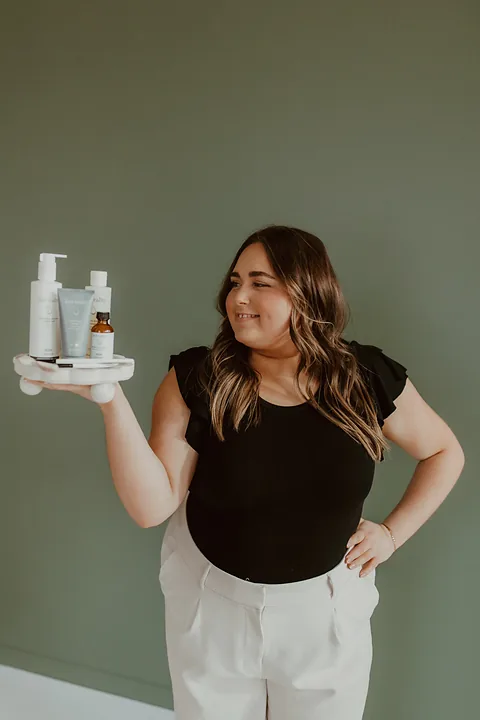
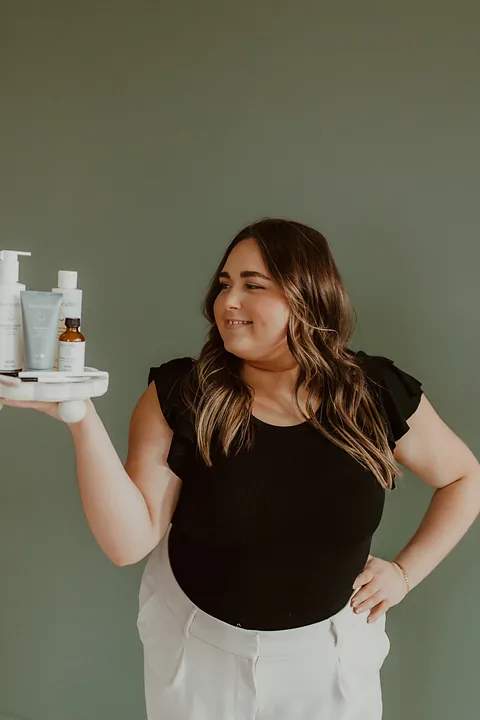
v2: new values copy, tighter Madison tray crop, IPL and RF starting-from prices
Replace the values line about skin cancer checks with honest advice and personalized plans. Recrop the tray photo so Madison sits more centered, and show IPL and RF prices in the same starting-from group format as laser.

Changed region(s): [[0.0, 0.3056, 1.0, 1.0], [0.6875, 0.9472, 0.7188, 0.9778]]

diff --git a/v2/injectables.html b/v2/injectables.html
@@ -25,7 +25,7 @@
 <div class="lede-wrap" data-enter="2"><p class="lede">Smooth wrinkles, plump lips, and facial balancing, with natural-looking results. Jeuveau softens lines, and dermal filler restores volume, with a plan built around your features.</p></div>
 <div class="ctas" data-enter="3"><a class="btn" href="https://efkrt.myaestheticrecord.com/online-booking">Book injectables</a><a class="btn ghost" href="#care">Pre and post care</a></div></div>
 <div class="ph hero-img mask zoom"><div class="px" data-parallax="8"><img src="../img/products-held.jpg" srcset="../img/products-held-480.webp 480w, ../img/products-held-800.webp 800w, ../img/products-held-1200.webp 1200w, ../img/products-held-1600.webp 1600w, ../img/products-held-2000.webp 2000w" sizes="(max-width:980px) 100vw, 50vw" width="2000" height="1196" alt="Madison holding Face Reality skincare products" decoding="async" loading="eager" fetchpriority="high" style="object-position:50% 35%"></div></div>
-</div></section><section class="menu-s"><div class="wrap pmenu"><div class="pcol"><div class="pstick mask"><div class="pf on" data-f="0"><img src="../img/ig-beanie.jpg" srcset="../img/ig-beanie-480.webp 480w, ../img/ig-beanie-800.webp 800w, ../img/ig-beanie-1200.webp 1200w, ../img/ig-beanie-1440.webp 1440w" sizes="(max-width:980px) 1px, 40vw" width="1440" height="1796" alt="Close-up of smooth, glowing skin" decoding="async" loading="eager" style="object-position:50% 30%"></div><div class="pf" data-f="1"><img src="../img/madison-tray.jpg" srcset="../img/madison-tray-480.webp 480w, ../img/madison-tray-800.webp 800w, ../img/madison-tray-1200.webp 1200w, ../img/madison-tray-1600.webp 1600w" sizes="(max-width:980px) 1px, 40vw" width="1600" height="2400" alt="Madison holding a tray of skincare products" decoding="async" loading="eager" style="object-position:50% 25%"></div></div></div><div class="plist"><div class="prow" data-f="0"><div class="pi mask zoom"><img src="../img/ig-beanie.jpg" srcset="../img/ig-beanie-480.webp 480w, ../img/ig-beanie-800.webp 800w, ../img/ig-beanie-1200.webp 1200w, ../img/ig-beanie-1440.webp 1440w" sizes="100vw" width="1440" height="1796" alt="Close-up of smooth, glowing skin" decoding="async" loading="lazy" style="object-position:50% 30%"></div><div class="item"><div class="row"><h3>Jeuveau Wrinkle Relaxer</h3><i></i><b>$12 / unit</b></div><p>Smooth fine lines and wrinkles with natural-looking results. Ideal for forehead, crow’s feet, frown lines, chin, and more. A quick treatment planned around your expressions, with results that typically last about 3–4 months.</p></div></div><div class="prow" data-f="0"><div class="item"><div class="row"><h3>Lip Flip</h3><i></i><b>$65</b></div><p>Enhance your upper lip with a few units of Jeuveau placed along the lip border, so the lip gently rolls outward for a fuller, softer look without adding volume. A quick treatment with natural-looking results that typically last about 2–3 months.</p></div></div><div class="prow" data-f="1"><div class="pi mask zoom"><img src="../img/madison-tray.jpg" srcset="../img/madison-tray-480.webp 480w, ../img/madison-tray-800.webp 800w, ../img/madison-tray-1200.webp 1200w, ../img/madison-tray-1600.webp 1600w" sizes="100vw" width="1600" height="2400" alt="Madison holding a tray of skincare products" decoding="async" loading="lazy" style="object-position:50% 25%"></div><div class="item"><div class="row"><h3>Dermal Filler, Half Syringe</h3><i></i><b>$375</b></div><p>Restore volume, define facial features, and enhance lips, cheeks, chin, or jawline with customized hyaluronic acid filler. Treatment is tailored to your features, whether you want a subtle refresh or more definition.</p><p class="best"><span>Best for:</span> Volume and structure</p></div></div><div class="prow" data-f="1"><div class="item"><div class="row"><h3>Dermal Filler, Full Syringe</h3><i></i><b>$550</b></div><p>Restore volume, define facial features, and enhance lips, cheeks, chin, or jawline with customized hyaluronic acid filler. Treatment is tailored to your features, whether you want a subtle refresh or more definition.</p><p class="best"><span>Best for:</span> Volume and structure</p></div></div></div></div></section><section class="finance dark" id="finance"><div class="wrap"><div data-reveal="left"><h2>Pay over time</h2><p class="lede" style="margin-top:8px">No hard credit checks. 0% APR options through Cherry.</p></div><a class="btn light" data-reveal="right" href="https://pay.withcherry.com/elevated-aesthetics-wi">Apply with Cherry</a></div></section><section id="care" class="care-s"><div class="wrap"><div class="head"><h2 data-reveal="left">Pre and post care</h2><p class="lede" data-reveal="right">Friendly tips for happy skin and long-lasting results from your favorite esthetician.</p></div><div class="care2" data-stagger><div class="cg"><h3>Wrinkle Relaxer</h3><div class="ccs n2"><div class="cc"><h4>Before your appointment</h4><p>Arrive with a clean face and avoid alcohol, ibuprofen, aspirin, fish oil, and other blood-thinning supplements for 24 hours if approved by your healthcare provider.</p></div><div class="cc"><h4>After your appointment</h4><p>Stay upright for 4 hours and avoid rubbing the treated area. Skip strenuous exercise, saunas, and facials for 24 hours. Full results develop in 10–14 days.</p></div></div></div><div class="cg"><h3>Dermal Filler</h3><div class="ccs n2"><div class="cc"><h4>Before your appointment</h4><p>Stay well hydrated and avoid alcohol, ibuprofen, aspirin, fish oil, and other blood-thinning supplements for 24 hours if approved by your healthcare provider to help minimize bruising.</p></div><div class="cc"><h4>After your appointment</h4><p>Expect mild swelling and bruising for a few days. Avoid strenuous exercise, excessive heat, and pressure on the treated area for 24–48 hours. Final results are typically seen once swelling resolves.</p></div></div></div></div><p class="guide" data-reveal><a href="faq.html"><span>Read the full pre and post care guide</span><i aria-hidden="true">→</i></a></p></div></section><section class="ig-s res-s" aria-labelledby="ig-h"><div class="wrap">
+</div></section><section class="menu-s"><div class="wrap pmenu"><div class="pcol"><div class="pstick mask"><div class="pf on" data-f="0"><img src="../img/ig-beanie.jpg" srcset="../img/ig-beanie-480.webp 480w, ../img/ig-beanie-800.webp 800w, ../img/ig-beanie-1200.webp 1200w, ../img/ig-beanie-1440.webp 1440w" sizes="(max-width:980px) 1px, 40vw" width="1440" height="1796" alt="Close-up of smooth, glowing skin" decoding="async" loading="eager" style="object-position:50% 30%"></div><div class="pf" data-f="1"><img src="../img/madison-tray.jpg" srcset="../img/madison-tray-480.webp 480w, ../img/madison-tray-800.webp 800w, ../img/madison-tray-1200.webp 1200w, ../img/madison-tray-1518.webp 1518w" sizes="(max-width:980px) 1px, 40vw" width="1518" height="2277" alt="Madison holding a tray of skincare products" decoding="async" loading="eager" style="object-position:50% 32%"></div></div></div><div class="plist"><div class="prow" data-f="0"><div class="pi mask zoom"><img src="../img/ig-beanie.jpg" srcset="../img/ig-beanie-480.webp 480w, ../img/ig-beanie-800.webp 800w, ../img/ig-beanie-1200.webp 1200w, ../img/ig-beanie-1440.webp 1440w" sizes="100vw" width="1440" height="1796" alt="Close-up of smooth, glowing skin" decoding="async" loading="lazy" style="object-position:50% 30%"></div><div class="item"><div class="row"><h3>Jeuveau Wrinkle Relaxer</h3><i></i><b>$12 / unit</b></div><p>Smooth fine lines and wrinkles with natural-looking results. Ideal for forehead, crow’s feet, frown lines, chin, and more. A quick treatment planned around your expressions, with results that typically last about 3–4 months.</p></div></div><div class="prow" data-f="0"><div class="item"><div class="row"><h3>Lip Flip</h3><i></i><b>$65</b></div><p>Enhance your upper lip with a few units of Jeuveau placed along the lip border, so the lip gently rolls outward for a fuller, softer look without adding volume. A quick treatment with natural-looking results that typically last about 2–3 months.</p></div></div><div class="prow" data-f="1"><div class="pi mask zoom"><img src="../img/madison-tray.jpg" srcset="../img/madison-tray-480.webp 480w, ../img/madison-tray-800.webp 800w, ../img/madison-tray-1200.webp 1200w, ../img/madison-tray-1518.webp 1518w" sizes="100vw" width="1518" height="2277" alt="Madison holding a tray of skincare products" decoding="async" loading="lazy" style="object-position:50% 32%"></div><div class="item"><div class="row"><h3>Dermal Filler, Half Syringe</h3><i></i><b>$375</b></div><p>Restore volume, define facial features, and enhance lips, cheeks, chin, or jawline with customized hyaluronic acid filler. Treatment is tailored to your features, whether you want a subtle refresh or more definition.</p><p class="best"><span>Best for:</span> Volume and structure</p></div></div><div class="prow" data-f="1"><div class="item"><div class="row"><h3>Dermal Filler, Full Syringe</h3><i></i><b>$550</b></div><p>Restore volume, define facial features, and enhance lips, cheeks, chin, or jawline with customized hyaluronic acid filler. Treatment is tailored to your features, whether you want a subtle refresh or more definition.</p><p class="best"><span>Best for:</span> Volume and structure</p></div></div></div></div></section><section class="finance dark" id="finance"><div class="wrap"><div data-reveal="left"><h2>Pay over time</h2><p class="lede" style="margin-top:8px">No hard credit checks. 0% APR options through Cherry.</p></div><a class="btn light" data-reveal="right" href="https://pay.withcherry.com/elevated-aesthetics-wi">Apply with Cherry</a></div></section><section id="care" class="care-s"><div class="wrap"><div class="head"><h2 data-reveal="left">Pre and post care</h2><p class="lede" data-reveal="right">Friendly tips for happy skin and long-lasting results from your favorite esthetician.</p></div><div class="care2" data-stagger><div class="cg"><h3>Wrinkle Relaxer</h3><div class="ccs n2"><div class="cc"><h4>Before your appointment</h4><p>Arrive with a clean face and avoid alcohol, ibuprofen, aspirin, fish oil, and other blood-thinning supplements for 24 hours if approved by your healthcare provider.</p></div><div class="cc"><h4>After your appointment</h4><p>Stay upright for 4 hours and avoid rubbing the treated area. Skip strenuous exercise, saunas, and facials for 24 hours. Full results develop in 10–14 days.</p></div></div></div><div class="cg"><h3>Dermal Filler</h3><div class="ccs n2"><div class="cc"><h4>Before your appointment</h4><p>Stay well hydrated and avoid alcohol, ibuprofen, aspirin, fish oil, and other blood-thinning supplements for 24 hours if approved by your healthcare provider to help minimize bruising.</p></div><div class="cc"><h4>After your appointment</h4><p>Expect mild swelling and bruising for a few days. Avoid strenuous exercise, excessive heat, and pressure on the treated area for 24–48 hours. Final results are typically seen once swelling resolves.</p></div></div></div></div><p class="guide" data-reveal><a href="faq.html"><span>Read the full pre and post care guide</span><i aria-hidden="true">→</i></a></p></div></section><section class="ig-s res-s" aria-labelledby="ig-h"><div class="wrap">
 <div class="res-head"><div data-reveal="left"><h2 id="ig-h">Results from the studio, on Instagram.</h2></div>
 <a class="btn ghost" data-reveal="right" href="https://www.instagram.com/mh.elevated.aesthetics/">@mh.elevated.aesthetics</a></div>
 <div class="res-mix n3" data-stagger><figure class="res-card vid" style="--ar:0.5625"><div class="res-media"><video autoplay muted loop playsinline preload="none" poster="media/DZ00_5AAKAZ.jpg" width="720" height="1280" aria-label="Lip filler from bare lips to a full syringe in Oshkosh, WI"><source src="media/DZ00_5AAKAZ.mp4" type="video/mp4"></video><button class="res-play" type="button" aria-label="Play video"></button></div><figcaption><span>Lip Filler</span><a class="link" href="https://www.instagram.com/p/DZ00_5AAKAZ/" target="_blank" rel="noopener">View on Instagram</a></figcaption></figure><figure class="res-card photo" style="--ar:0.75"><div class="res-media"><img src="media/Da8fxqhgGhR.jpg?v=2" srcset="media/Da8fxqhgGhR.webp?v=2" width="1080" height="1440" alt="Chin filler before and after in Oshkosh, WI" loading="lazy" decoding="async"></div><figcaption><span>Chin Filler</span><a class="link" href="https://www.instagram.com/p/Da8fxqhgGhR/" target="_blank" rel="noopener">View on Instagram</a></figcaption></figure><figure class="res-card photo" style="--ar:0.8"><div class="res-media"><img src="media/DblWKe2lnBZ--2.jpg?v=2" srcset="media/DblWKe2lnBZ--2.webp?v=2" width="1080" height="1350" alt="Cheek filler before and after in Oshkosh, WI" loading="lazy" decoding="async"></div><figcaption><span>Cheek Filler</span><a class="link" href="https://www.instagram.com/p/DblWKe2lnBZ/" target="_blank" rel="noopener">View on Instagram</a></figcaption></figure></div>

diff --git a/v2/pricing.html b/v2/pricing.html
@@ -47,7 +47,7 @@
 <article class="pg" id="ipl">
 <div class="pg-h"><div><h2>IPL Treatments</h2><p class="lede">Single sessions or packages, with Olivia or Madison.</p></div>
 <div class="pg-act"><a class="btn ghost" href="ipl.html">View treatment</a><a class="btn" href="https://efkrt.myaestheticrecord.com/online-booking">Book</a></div></div>
-<div class="ptables c2" data-stagger><div class="pcolm"><div class="ptable"><h3>Face</h3><table><thead><tr><th scope="col">Treatment</th><th scope="col">Price</th></tr></thead><tbody><tr><th scope="row">Full Face Package (3)</th><td>$1,300</td></tr><tr><th scope="row">Full Face Single</th><td>$500</td></tr><tr><th scope="row">Full Face + Neck Package (3)</th><td>$2,350</td></tr><tr><th scope="row">Full Face + Neck Single</th><td>$300</td></tr><tr><th scope="row">Chest Package</th><td>$1,300</td></tr><tr><th scope="row">Chest Single</th><td>$500</td></tr></tbody></table></div></div><div class="pcolm"><div class="ptable"><h3>Body</h3><table><thead><tr><th scope="col">Treatment</th><th scope="col">Price</th></tr></thead><tbody><tr><th scope="row">Spot Treatment Package (3)</th><td>$800</td></tr><tr><th scope="row">Spot Treatment Single</th><td>$300</td></tr><tr><th scope="row">Hands Package (3)</th><td>$1,050</td></tr><tr><th scope="row">Hands Single</th><td>$450</td></tr></tbody></table></div><div class="ptable"><h3>Packages</h3><table><thead><tr><th scope="col">Treatment</th><th scope="col">Price</th></tr></thead><tbody><tr><th scope="row">Bright & Tight: RF Micro-Needle (3) + IPL (3)</th><td>$4,800</td></tr></tbody></table></div></div></div></article>
+<div class="ptables c3" data-stagger><div class="pcolm"><div class="ptable lz-flat"><h3><span class="lz-flat-name">Face</span><span class="lz-from">starting from $500</span></h3><ul class="lz-areas"><li>Full Face</li><li>Full Face + Neck</li><li>Chest</li></ul></div></div><div class="pcolm"><div class="ptable lz-flat"><h3><span class="lz-flat-name">Body</span><span class="lz-from">starting from $300</span></h3><ul class="lz-areas"><li>Spot Treatment</li><li>Hands</li></ul></div></div><div class="pcolm"><div class="ptable lz-flat"><h3><span class="lz-flat-name">Packages</span><span class="lz-from">starting from $4,800</span></h3><ul class="lz-areas"><li>Bright & Tight: RF Micro-Needle (3) + IPL (3)</li></ul></div></div></div></article>
 <article class="pg" id="laser-hair-removal">
 <div class="pg-h"><div><h2>Laser Hair Removal</h2><p class="lede">All prices are for a 6-session package. With Olivia or Madison.</p></div>
 <div class="pg-act"><a class="btn ghost" href="laser-hair-removal.html">View treatment</a><a class="btn" href="https://efkrt.myaestheticrecord.com/online-booking">Book</a></div></div>
@@ -55,7 +55,7 @@
 <article class="pg" id="rf-microneedling">
 <div class="pg-h"><div><h2>RF Microneedling</h2><p class="lede">Single sessions or packages, with Olivia or Madison.</p></div>
 <div class="pg-act"><a class="btn ghost" href="rf-microneedling.html">View treatment</a><a class="btn" href="https://efkrt.myaestheticrecord.com/online-booking">Book</a></div></div>
-<div class="ptables c3" data-stagger><div class="pcolm"><div class="ptable"><h3>Face</h3><table><thead><tr><th scope="col">Treatment</th><th scope="col">Price</th></tr></thead><tbody><tr><th scope="row">Full Face Package (3)</th><td>$2,800</td></tr><tr><th scope="row">Full Face Single</th><td>$950</td></tr><tr><th scope="row">Full Face + Neck Package (3)</th><td>$3,000</td></tr><tr><th scope="row">Full Face + Neck Single</th><td>$1,000</td></tr><tr><th scope="row">Chest Package (3)</th><td>$1,300</td></tr><tr><th scope="row">Chest Single</th><td>$500</td></tr></tbody></table></div></div><div class="pcolm"><div class="ptable"><h3>Body</h3><table><thead><tr><th scope="col">Treatment</th><th scope="col">Price</th></tr></thead><tbody><tr><th scope="row">Scars Package (3)</th><td>$1,300</td></tr><tr><th scope="row">Scars Treatment Single</th><td>$500</td></tr><tr><th scope="row">Stretch Marks Package (3)</th><td>$1,800</td></tr><tr><th scope="row">Stretch Marks Single</th><td>$700</td></tr></tbody></table></div></div><div class="pcolm"><div class="ptable"><h3>Eyes and Mouth</h3><table><thead><tr><th scope="col">Treatment</th><th scope="col">Price</th></tr></thead><tbody><tr><th scope="row">Eyes Package (3)</th><td>$1,200</td></tr><tr><th scope="row">Eyes Single</th><td>$450</td></tr><tr><th scope="row">Around Mouth Package (3)</th><td>$1,200</td></tr><tr><th scope="row">Around Mouth Single</th><td>$450</td></tr><tr><th scope="row">Eyes and Mouth Package (3)</th><td>$2,000</td></tr><tr><th scope="row">Eyes and Mouth Single</th><td>$650</td></tr></tbody></table></div></div></div></article>
+<div class="ptables c3" data-stagger><div class="pcolm"><div class="ptable lz-flat"><h3><span class="lz-flat-name">Face</span><span class="lz-from">starting from $500</span></h3><ul class="lz-areas"><li>Full Face</li><li>Full Face + Neck</li><li>Chest</li></ul></div></div><div class="pcolm"><div class="ptable lz-flat"><h3><span class="lz-flat-name">Body</span><span class="lz-from">starting from $500</span></h3><ul class="lz-areas"><li>Scars</li><li>Stretch Marks</li></ul></div></div><div class="pcolm"><div class="ptable lz-flat"><h3><span class="lz-flat-name">Eyes and Mouth</span><span class="lz-from">starting from $450</span></h3><ul class="lz-areas"><li>Eyes</li><li>Around Mouth</li><li>Eyes and Mouth</li></ul></div></div></div></article>
 </div></section>
 <section class="finance dark" id="finance"><div class="wrap"><div data-reveal="left"><h2>Pay over time</h2><p class="lede" style="margin-top:8px">No hard credit checks. 0% APR options through Cherry.</p></div><a class="btn light" data-reveal="right" href="https://pay.withcherry.com/elevated-aesthetics-wi">Apply with Cherry</a></div></section><section class="ig-s" aria-labelledby="ig-h"><div class="wrap res-head">
 <div data-reveal="left"><h2 id="ig-h">Results from the studio, on Instagram.</h2></div>

diff --git a/v2/ipl.html b/v2/ipl.html
@@ -24,9 +24,9 @@
 <div><p class="crumb" data-enter><a class="link" href="services.html">Treatments</a> / IPL Treatments</p><h1 class="split"><span class="w"><span style="--i:0">IPL</span></span> <span class="w"><span style="--i:1">Treatments</span></span></h1>
 <div class="lede-wrap" data-enter="2"><p class="by" style="margin-bottom:12px">Intense pulsed light, with Olivia or Madison</p><p class="lede">Reveal brighter, more even-looking skin with IPL, a light-based treatment designed to target common concerns such as sun damage, brown spots, redness, visible capillaries, and uneven skin tone.</p></div>
 <div class="ctas" data-enter="3"><a class="btn" href="https://efkrt.myaestheticrecord.com/online-booking">Book IPL</a><a class="btn ghost" href="#prices">See prices</a></div></div>
-<div class="ph hero-img mask zoom"><div class="px" data-parallax="8"><img src="../img/madison-tray.jpg" srcset="../img/madison-tray-480.webp 480w, ../img/madison-tray-800.webp 800w, ../img/madison-tray-1200.webp 1200w, ../img/madison-tray-1600.webp 1600w" sizes="(max-width:980px) 100vw, 50vw" width="1600" height="2400" alt="Madison holding a tray of skincare products" decoding="async" loading="eager" fetchpriority="high" style="object-position:50% 25%"></div></div>
+<div class="ph hero-img mask zoom"><div class="px" data-parallax="8"><img src="../img/madison-tray.jpg" srcset="../img/madison-tray-480.webp 480w, ../img/madison-tray-800.webp 800w, ../img/madison-tray-1200.webp 1200w, ../img/madison-tray-1518.webp 1518w" sizes="(max-width:980px) 100vw, 50vw" width="1518" height="2277" alt="Madison holding a tray of skincare products" decoding="async" loading="eager" fetchpriority="high" style="object-position:50% 32%"></div></div>
 </div></section><section class="stone" id="prices"><div class="wrap"><div class="head"><h2 data-reveal="left">IPL prices</h2><p class="lede" data-reveal="right">Single sessions or packages. Pay over time with Cherry.</p></div>
-<div class="ptables c2" data-stagger><div class="pcolm"><div class="ptable"><h3>Face</h3><table><thead><tr><th scope="col">Treatment</th><th scope="col">Price</th></tr></thead><tbody><tr><th scope="row">Full Face Package (3)</th><td>$1,300</td></tr><tr><th scope="row">Full Face Single</th><td>$500</td></tr><tr><th scope="row">Full Face + Neck Package (3)</th><td>$2,350</td></tr><tr><th scope="row">Full Face + Neck Single</th><td>$300</td></tr><tr><th scope="row">Chest Package</th><td>$1,300</td></tr><tr><th scope="row">Chest Single</th><td>$500</td></tr></tbody></table></div></div><div class="pcolm"><div class="ptable"><h3>Body</h3><table><thead><tr><th scope="col">Treatment</th><th scope="col">Price</th></tr></thead><tbody><tr><th scope="row">Spot Treatment Package (3)</th><td>$800</td></tr><tr><th scope="row">Spot Treatment Single</th><td>$300</td></tr><tr><th scope="row">Hands Package (3)</th><td>$1,050</td></tr><tr><th scope="row">Hands Single</th><td>$450</td></tr></tbody></table></div><div class="ptable"><h3>Packages</h3><table><thead><tr><th scope="col">Treatment</th><th scope="col">Price</th></tr></thead><tbody><tr><th scope="row">Bright & Tight: RF Micro-Needle (3) + IPL (3)</th><td>$4,800</td></tr></tbody></table></div></div></div></div></section><section class="finance dark" id="finance"><div class="wrap"><div data-reveal="left"><h2>Pay over time</h2><p class="lede" style="margin-top:8px">No hard credit checks. 0% APR options through Cherry.</p></div><a class="btn light" data-reveal="right" href="https://pay.withcherry.com/elevated-aesthetics-wi">Apply with Cherry</a></div></section><section class="how-s" id="how"><div class="wrap how-grid">
+<div class="lz-prices"><div class="lz-acc"><button class="lz-sum" type="button" aria-expanded="false" aria-controls="ipl-panel-0"><span class="lz-name">Face</span><span class="lz-from">starting from $500</span><i class="lz-chev" aria-hidden="true"></i></button><div class="lz-panel" id="ipl-panel-0" role="region"><div class="lz-in"><ul class="lz-areas"><li>Full Face</li><li>Full Face + Neck</li><li>Chest</li></ul></div></div></div><div class="lz-acc"><button class="lz-sum" type="button" aria-expanded="false" aria-controls="ipl-panel-1"><span class="lz-name">Body</span><span class="lz-from">starting from $300</span><i class="lz-chev" aria-hidden="true"></i></button><div class="lz-panel" id="ipl-panel-1" role="region"><div class="lz-in"><ul class="lz-areas"><li>Spot Treatment</li><li>Hands</li></ul></div></div></div><div class="lz-acc"><button class="lz-sum" type="button" aria-expanded="false" aria-controls="ipl-panel-2"><span class="lz-name">Packages</span><span class="lz-from">starting from $4,800</span><i class="lz-chev" aria-hidden="true"></i></button><div class="lz-panel" id="ipl-panel-2" role="region"><div class="lz-in"><ul class="lz-areas"><li>Bright & Tight: RF Micro-Needle (3) + IPL (3)</li></ul></div></div></div></div></div></section><section class="finance dark" id="finance"><div class="wrap"><div data-reveal="left"><h2>Pay over time</h2><p class="lede" style="margin-top:8px">No hard credit checks. 0% APR options through Cherry.</p></div><a class="btn light" data-reveal="right" href="https://pay.withcherry.com/elevated-aesthetics-wi">Apply with Cherry</a></div></section><section class="how-s" id="how"><div class="wrap how-grid">
 <div class="how-copy" data-reveal="left">
 <h2>How it works</h2>
 <p class="lede">IPL delivers gentle pulses of broad-spectrum light into the skin, targeting pigment and vascular concerns while encouraging a more refreshed, radiant appearance.</p>

diff --git a/v2/rf-microneedling.html b/v2/rf-microneedling.html
@@ -26,7 +26,7 @@
 <div class="ctas" data-enter="3"><a class="btn" href="https://efkrt.myaestheticrecord.com/online-booking">Book RF microneedling</a><a class="btn ghost" href="#prices">See prices</a></div></div>
 <div class="ph hero-img mask zoom"><div class="px" data-parallax="8"><img src="../img/pampas.jpg" srcset="../img/pampas-480.webp 480w, ../img/pampas-800.webp 800w, ../img/pampas-1200.webp 1200w, ../img/pampas-1343.webp 1343w" sizes="(max-width:980px) 100vw, 50vw" width="1343" height="3000" alt="Pampas grass" decoding="async" loading="eager" fetchpriority="high" style="object-position:50% 50%"></div></div>
 </div></section><section class="stone" id="prices"><div class="wrap"><div class="head"><h2 data-reveal="left">RF Microneedling prices</h2><p class="lede" data-reveal="right">Single sessions or packages. Pay over time with Cherry.</p></div>
-<div class="ptables c3" data-stagger><div class="pcolm"><div class="ptable"><h3>Face</h3><table><thead><tr><th scope="col">Treatment</th><th scope="col">Price</th></tr></thead><tbody><tr><th scope="row">Full Face Package (3)</th><td>$2,800</td></tr><tr><th scope="row">Full Face Single</th><td>$950</td></tr><tr><th scope="row">Full Face + Neck Package (3)</th><td>$3,000</td></tr><tr><th scope="row">Full Face + Neck Single</th><td>$1,000</td></tr><tr><th scope="row">Chest Package (3)</th><td>$1,300</td></tr><tr><th scope="row">Chest Single</th><td>$500</td></tr></tbody></table></div></div><div class="pcolm"><div class="ptable"><h3>Body</h3><table><thead><tr><th scope="col">Treatment</th><th scope="col">Price</th></tr></thead><tbody><tr><th scope="row">Scars Package (3)</th><td>$1,300</td></tr><tr><th scope="row">Scars Treatment Single</th><td>$500</td></tr><tr><th scope="row">Stretch Marks Package (3)</th><td>$1,800</td></tr><tr><th scope="row">Stretch Marks Single</th><td>$700</td></tr></tbody></table></div></div><div class="pcolm"><div class="ptable"><h3>Eyes and Mouth</h3><table><thead><tr><th scope="col">Treatment</th><th scope="col">Price</th></tr></thead><tbody><tr><th scope="row">Eyes Package (3)</th><td>$1,200</td></tr><tr><th scope="row">Eyes Single</th><td>$450</td></tr><tr><th scope="row">Around Mouth Package (3)</th><td>$1,200</td></tr><tr><th scope="row">Around Mouth Single</th><td>$450</td></tr><tr><th scope="row">Eyes and Mouth Package (3)</th><td>$2,000</td></tr><tr><th scope="row">Eyes and Mouth Single</th><td>$650</td></tr></tbody></table></div></div></div></div></section><section class="finance dark" id="finance"><div class="wrap"><div data-reveal="left"><h2>Pay over time</h2><p class="lede" style="margin-top:8px">No hard credit checks. 0% APR options through Cherry.</p></div><a class="btn light" data-reveal="right" href="https://pay.withcherry.com/elevated-aesthetics-wi">Apply with Cherry</a></div></section><section class="how-s" id="how"><div class="wrap how-grid how-2">
+<div class="lz-prices"><div class="lz-acc"><button class="lz-sum" type="button" aria-expanded="false" aria-controls="rf-panel-0"><span class="lz-name">Face</span><span class="lz-from">starting from $500</span><i class="lz-chev" aria-hidden="true"></i></button><div class="lz-panel" id="rf-panel-0" role="region"><div class="lz-in"><ul class="lz-areas"><li>Full Face</li><li>Full Face + Neck</li><li>Chest</li></ul></div></div></div><div class="lz-acc"><button class="lz-sum" type="button" aria-expanded="false" aria-controls="rf-panel-1"><span class="lz-name">Body</span><span class="lz-from">starting from $500</span><i class="lz-chev" aria-hidden="true"></i></button><div class="lz-panel" id="rf-panel-1" role="region"><div class="lz-in"><ul class="lz-areas"><li>Scars</li><li>Stretch Marks</li></ul></div></div></div><div class="lz-acc"><button class="lz-sum" type="button" aria-expanded="false" aria-controls="rf-panel-2"><span class="lz-name">Eyes and Mouth</span><span class="lz-from">starting from $450</span><i class="lz-chev" aria-hidden="true"></i></button><div class="lz-panel" id="rf-panel-2" role="region"><div class="lz-in"><ul class="lz-areas"><li>Eyes</li><li>Around Mouth</li><li>Eyes and Mouth</li></ul></div></div></div></div></div></section><section class="finance dark" id="finance"><div class="wrap"><div data-reveal="left"><h2>Pay over time</h2><p class="lede" style="margin-top:8px">No hard credit checks. 0% APR options through Cherry.</p></div><a class="btn light" data-reveal="right" href="https://pay.withcherry.com/elevated-aesthetics-wi">Apply with Cherry</a></div></section><section class="how-s" id="how"><div class="wrap how-grid how-2">
 <div class="how-copy" data-reveal="left">
 <h2>Why RF</h2>
 <p class="lede">Unlike traditional microneedling, RF microneedling delivers controlled radio frequency energy beneath the surface of the skin, creating a targeted thermal effect that encourages natural skin remodeling and renewal. The result is a treatment designed to improve both skin texture and firmness over time.</p>

diff --git a/v2/about.html b/v2/about.html
@@ -36,8 +36,8 @@
 <p>Whether it’s your first facial or your monthly glow-up, I’m here to guide you, cheer you on, and help you fall in love with your skin again.</p><p>Can’t wait to meet you!</p>
 <img class="sig" src="../img/signature.png" width="2300" height="539" alt="Madison Herbeck signature" loading="lazy"></div></div></section>
 <section class="stone"><div class="wrap"><div class="head"><h2 data-reveal="left">Our vibe and values</h2><p class="lede" data-reveal="right">What every visit is built around.</p></div>
-<ol class="vals" data-stagger><li><span>01</span>Confidence in your own skin</li><li><span>02</span>Clear, glowing, makeup-optional skin</li><li><span>03</span>Real results and long-term care</li><li><span>04</span>Skin cancer prevention and education</li><li><span>05</span>A safe, fun space to prioritize you</li></ol></div></section>
-<section class="band" aria-label="Studio photo"><div class="band-in mask"><div class="px" data-parallax="9"><img src="../img/madison-tray.jpg" srcset="../img/madison-tray-480.webp 480w, ../img/madison-tray-800.webp 800w, ../img/madison-tray-1200.webp 1200w, ../img/madison-tray-1600.webp 1600w" sizes="100vw" width="1600" height="2400" alt="Madison holding a tray of skincare products" decoding="async" loading="lazy" style="object-position:50% 30%"></div></div></section>
+<ol class="vals" data-stagger><li><span>01</span>Confidence in your own skin</li><li><span>02</span>Clear, glowing, makeup-optional skin</li><li><span>03</span>Real results and long-term care</li><li><span>04</span>Honest advice and personalized treatment plans</li><li><span>05</span>A safe, fun space to prioritize you</li></ol></div></section>
+<section class="band" aria-label="Studio photo"><div class="band-in mask"><div class="px" data-parallax="9"><img src="../img/madison-tray.jpg" srcset="../img/madison-tray-480.webp 480w, ../img/madison-tray-800.webp 800w, ../img/madison-tray-1200.webp 1200w, ../img/madison-tray-1518.webp 1518w" sizes="100vw" width="1518" height="2277" alt="Madison holding a tray of skincare products" decoding="async" loading="lazy" style="object-position:50% 36%"></div></div></section>
 <section class="stone cta"><div class="wrap"><h2 data-reveal="left">Can’t wait to meet you.</h2><a class="btn" data-reveal="right" href="https://efkrt.myaestheticrecord.com/online-booking">Book now</a></div></section></main><footer><div class="wrap"><div class="grid" data-stagger>
 <div><img class="lg" src="../img/logo-white.png" width="612" height="272" alt="Elevated Aesthetics by Madison Herbeck" loading="lazy"><p style="margin-top:20px;max-width:46ch">136 Jackson Street, Oshkosh, WI 54901. Inside Bella Babe, second floor. When you arrive, have a seat in the Bella Babe waiting area and complete your intake forms if you haven’t already.</p></div>
 <div><h4>Treatments</h4><ul><li><a class="link" href="facial-treatments.html">Facial Treatments</a></li><li><a class="link" href="lash-and-brow.html">Lash and Brow</a></li><li><a class="link" href="waxing.html">Waxing</a></li><li><a class="link" href="injectables.html">Injectables</a></li><li><a class="link" href="ipl.html">IPL Treatments</a></li><li><a class="link" href="laser-hair-removal.html">Laser Hair Removal</a></li><li><a class="link" href="rf-microneedling.html">RF Microneedling</a></li></ul></div>

diff --git a/v2/index.html b/v2/index.html
@@ -42,7 +42,7 @@
 <p>This is more than skincare. It’s a space where you can relax, feel cared for, and reconnect with your natural glow.</p>
 <img class="sig" src="../img/signature.png" width="2300" height="539" alt="Madison Herbeck signature" loading="lazy">
 <div><a class="btn ghost" href="about.html">The woman behind the brand</a></div>
-<ul class="values"><li>Confidence in your own skin</li><li>Real results and long-term care</li><li>Skin cancer prevention and education</li><li>A safe, fun space to prioritize you</li></ul>
+<ul class="values"><li>Confidence in your own skin</li><li>Real results and long-term care</li><li>Honest advice and personalized treatment plans</li><li>A safe, fun space to prioritize you</li></ul>
 </div></div></section>
 <section class="band" aria-label="Studio photo"><div class="band-in mask"><div class="px" data-parallax="9"><img src="../img/face-closeup.jpg" srcset="../img/face-closeup-480.webp 480w, ../img/face-closeup-800.webp 800w, ../img/face-closeup-1200.webp 1200w, ../img/face-closeup-1600.webp 1600w, ../img/face-closeup-2000.webp 2000w" sizes="100vw" width="2000" height="957" alt="Close-up of glowing skin after a facial at Elevated Aesthetics in Oshkosh, WI" decoding="async" loading="lazy" style="object-position:50% 40%"></div></div><div class="band-cap" data-reveal><p>This is more than skincare.</p></div></section>
 <section class="ig-s res-s" aria-labelledby="ig-h"><div class="wrap">
